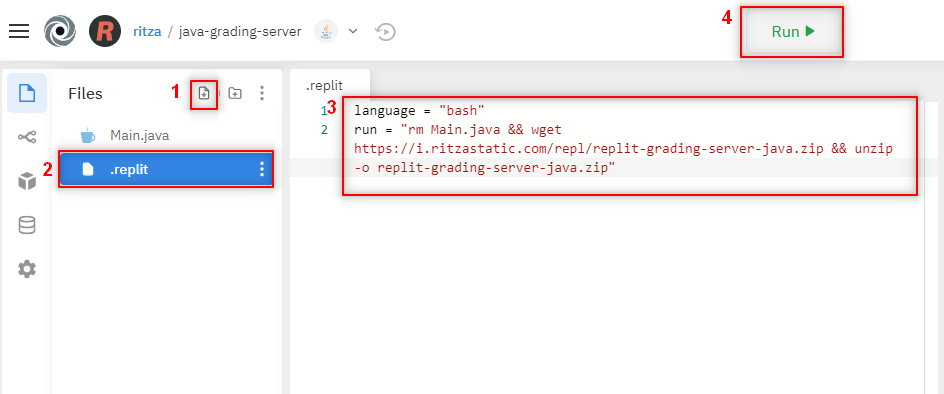
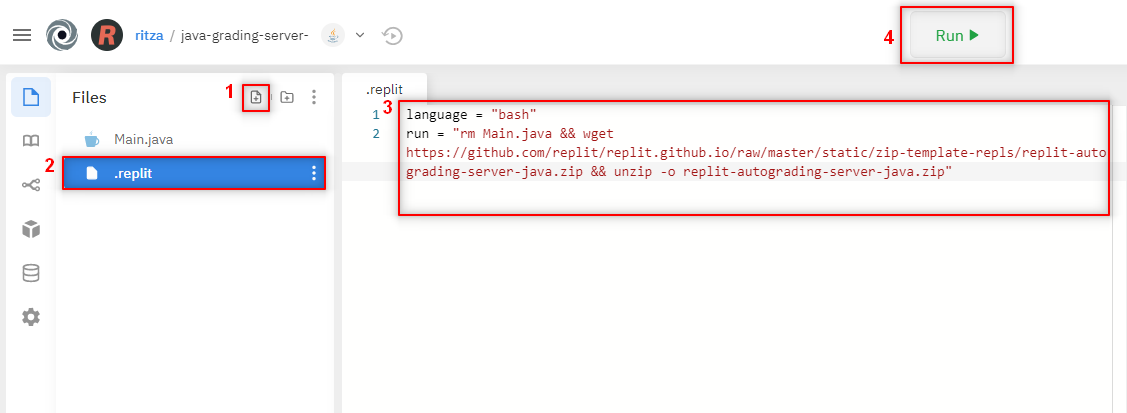
fix zip bomb bash commands and update bomb images

diff --git a/Teams/ReplGraderQuickstart.md b/Teams/ReplGraderQuickstart.md
@@ -38,7 +38,7 @@ Add the following `.replit` file and press run.
 
 ```bash
 language="bash"
-run="wget https://replgrader.com/assets/assignment-template.zip && unzip -o replgrader-student-template.zip"
+run="wget https://replgrader.com/assets/assignment-template.zip && unzip -o assignment-template.zip"
 ```
 
 This pulls in all of the generic files needed for the student project, but you still need to initialise it with your own `main.py` file and `README.md`. As you already submitted these to replgrader.com, you can pull these from there by replacing the contents of the `.replit` file with the following and pressing run again.

diff --git a/Teams/CentralizedAutograder-java.md b/Teams/CentralizedAutograder-java.md
@@ -52,7 +52,7 @@ Instead of creating each file manually, we've set up a `.zip` project for you to
 
 ```bash
 language = "bash"
-run = "rm Main.java && wget https://github.com/replit/replit.github.io/raw/master/static/zip-template-repls/replit-autograding-server-java.zip && unzip -o replit-grading-server-java.zip"
+run = "rm Main.java && wget https://github.com/replit/replit.github.io/raw/master/static/zip-template-repls/replit-autograding-server-java.zip && unzip -o replit-autograding-server-java.zip"
 ```
 ![](/images/teamsForEducation/centralized-autograder-java/03-download-zip-bash.png)
 
